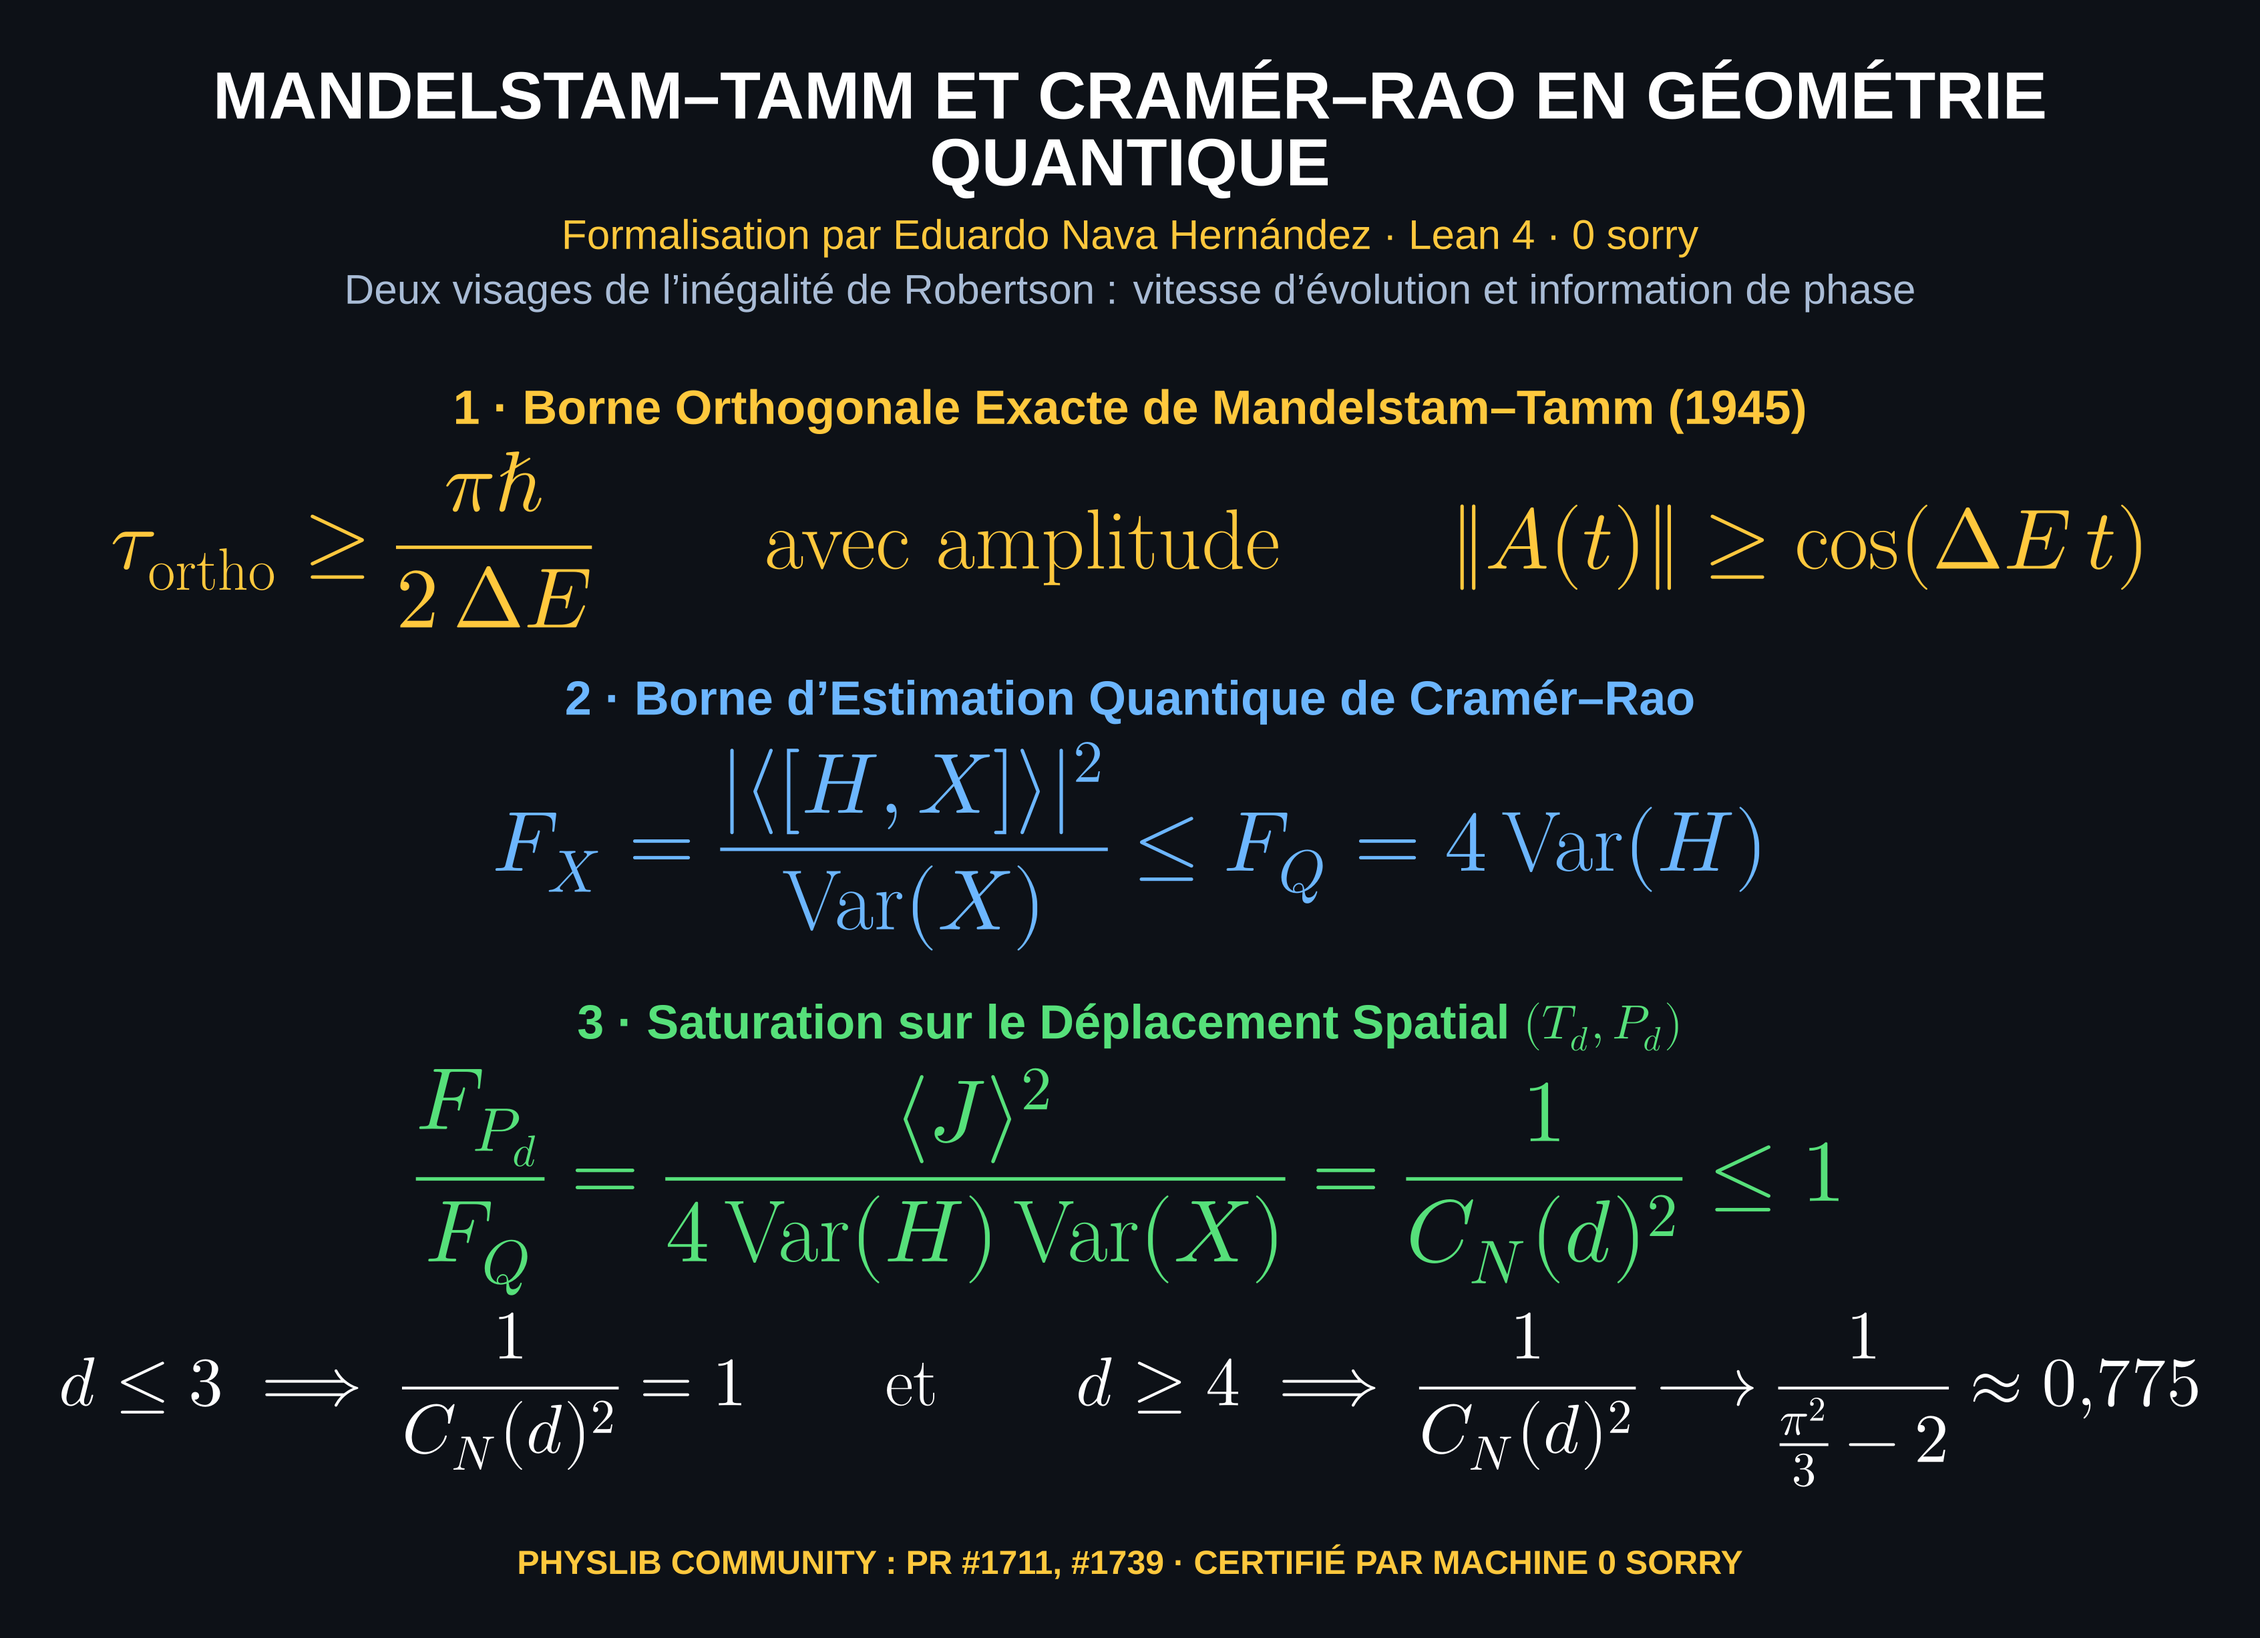
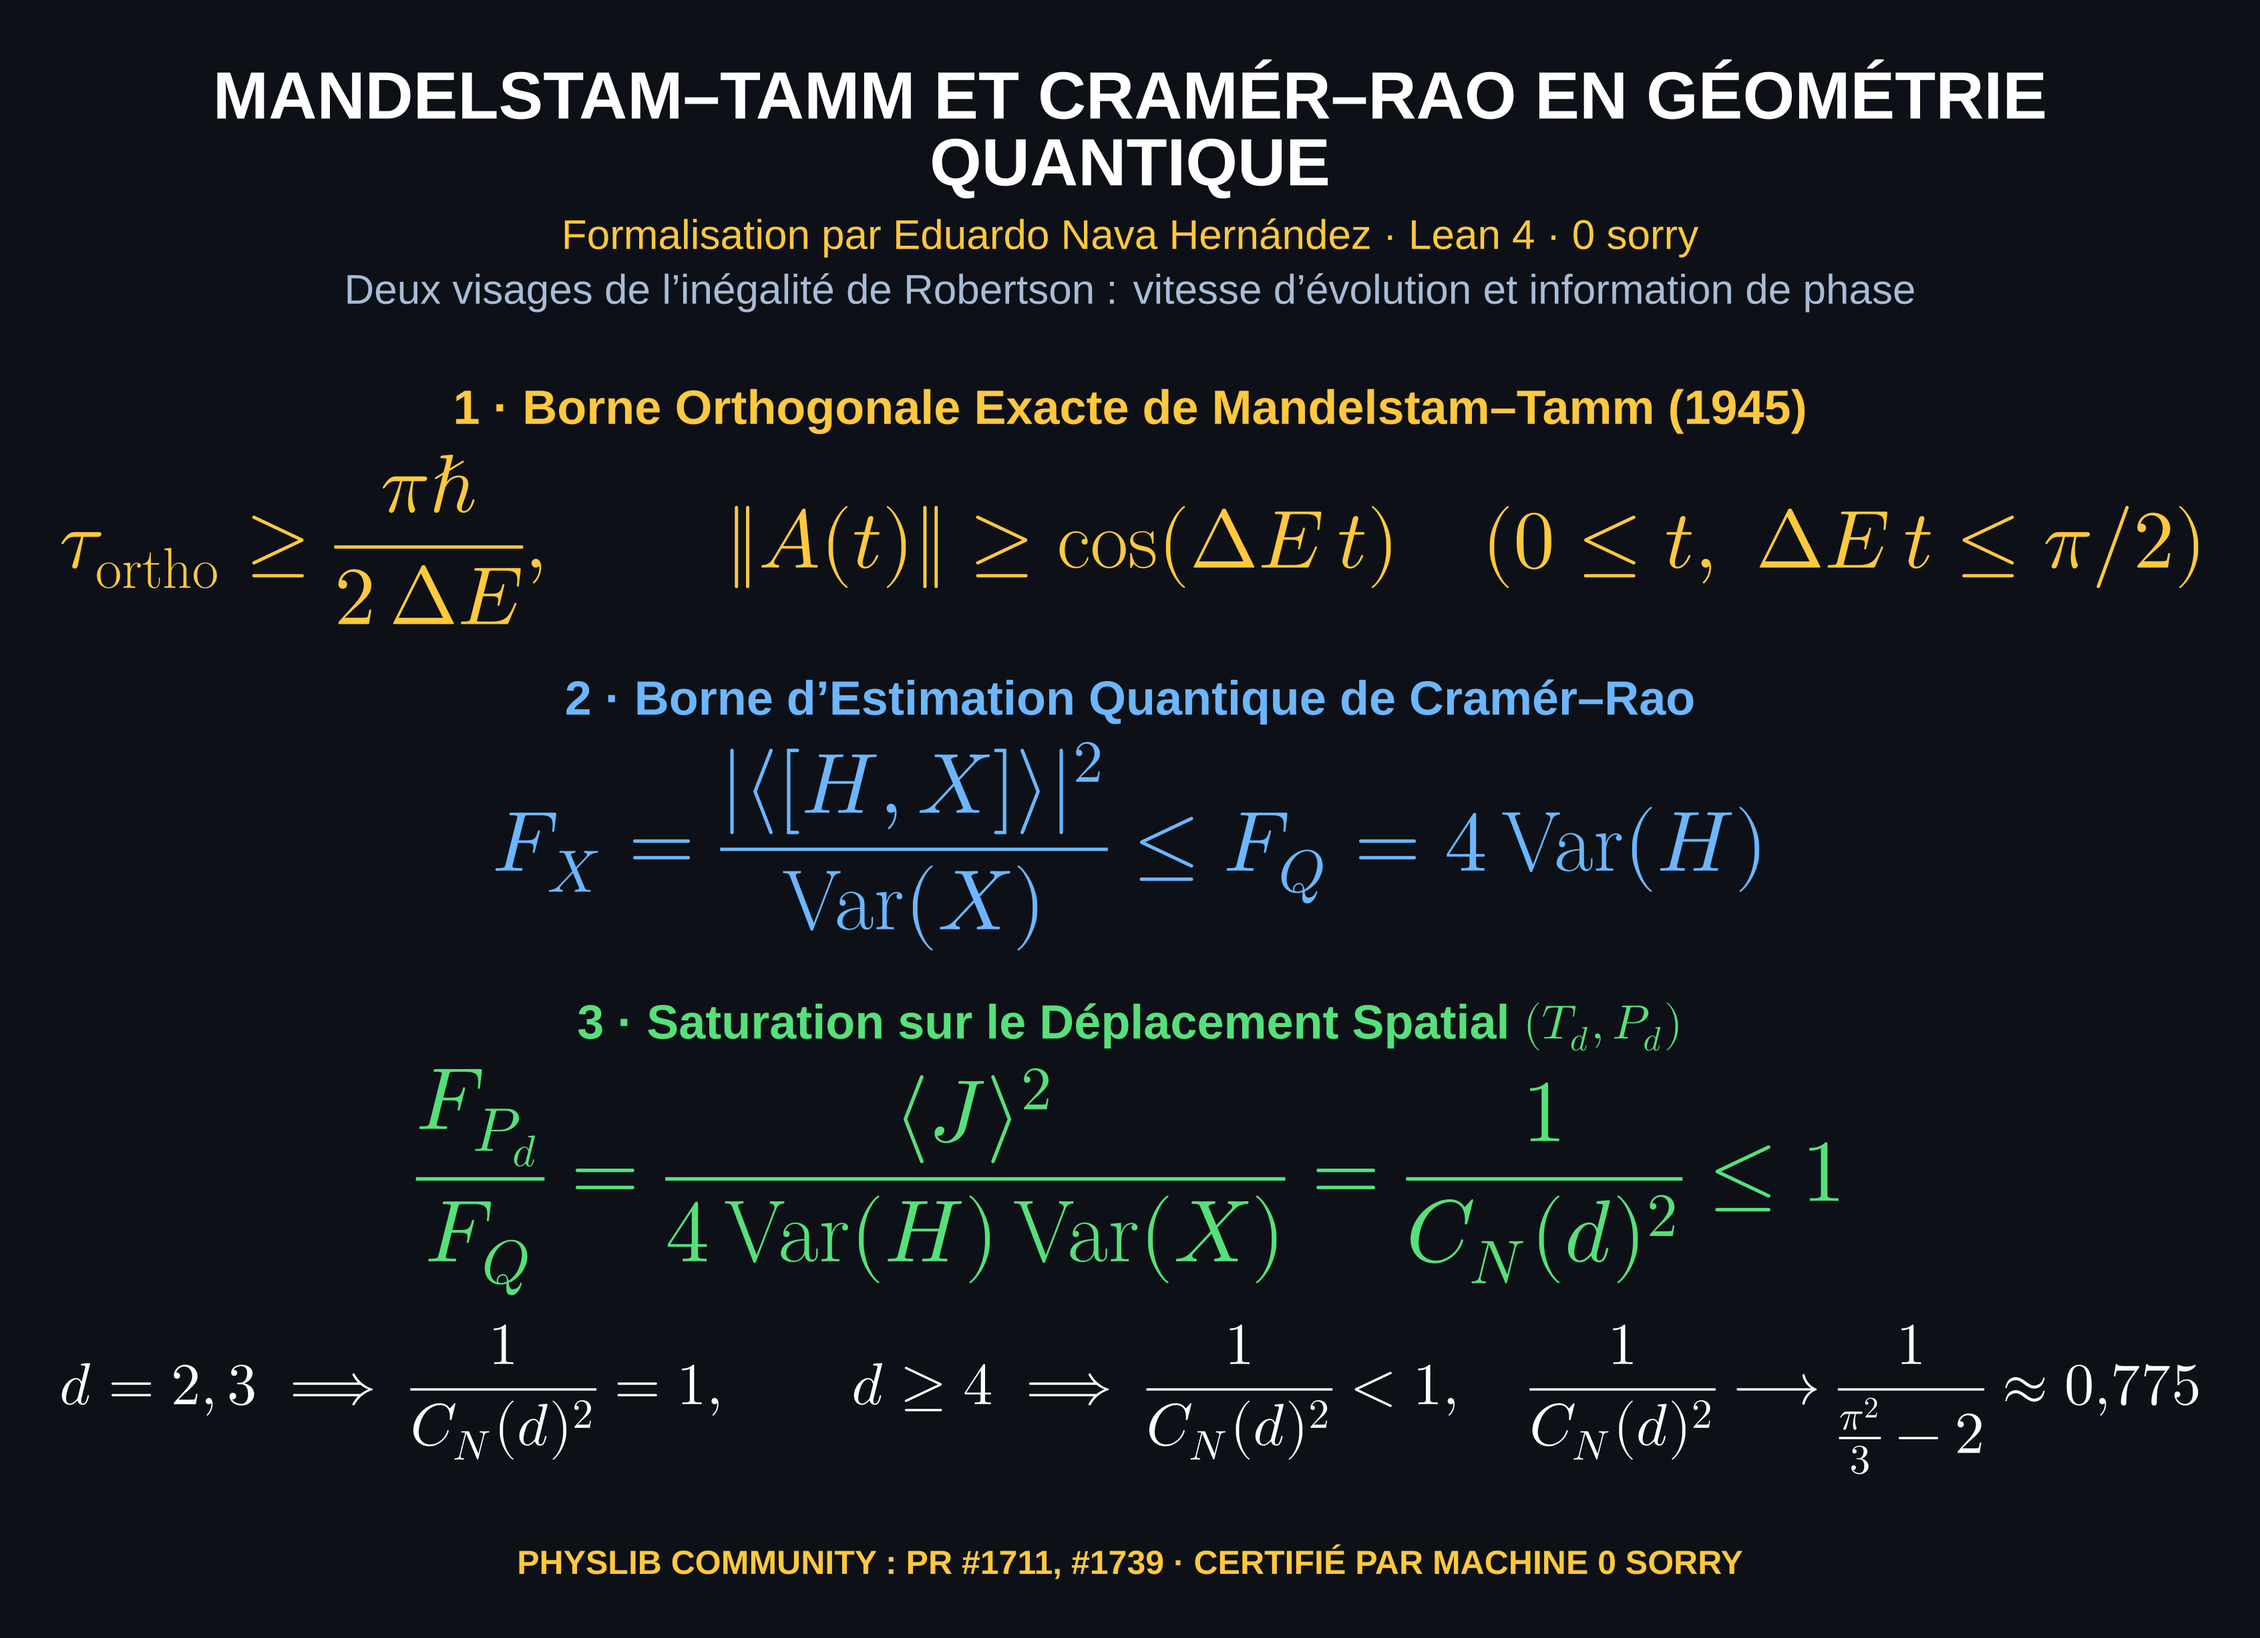
docs(readme): hypothèses 0 ≤ t, ΔE t ≤ π/2 dans les plaques ; Verification/Axioms.lean (#print axioms) ; convention ħ = 1

diff --git a/README.md b/README.md
@@ -55,6 +55,8 @@ Lorsque l'on étudie la vitesse de déplacement ou la précision d'estimation d'
 
 ## ⚡ Résumé formel
 
+*Convention : les modules Lean posent ħ = 1 ; les formules affichées restituent ħ (τ_ortho ≥ πħ / (2ΔE)). Les bornes en cos(ΔE t) valent pour 0 ≤ t et ΔE t ≤ π/2.*
+
 Ce dépôt formalise les deux théorèmes fondamentaux de la dynamique et de la métrologie quantiques sur espaces de Hilbert généraux et sur ℂ^d :
 
 * L'amplitude de survie A(t) et le temps minimal d'orthogonalité sont établis dans [`NRS3MandelstamTammCramerRao/MandelstamTamm1945.lean`](NRS3MandelstamTammCramerRao/MandelstamTamm1945.lean) (`cos_le_norm_amplitude`, `orthogonality_time`).
@@ -136,7 +138,7 @@ Sur la paire transport-position (T_d, P_d), l'efficacité F_P / F_Q vaut exactem
 | [`MandelstamTamm1945.lean`](NRS3MandelstamTammCramerRao/MandelstamTamm1945.lean) | `cos_le_norm_inner_evolve` | Évolution de Schrödinger finie sur ℂ^d | 0 |
 | [`CramerRao.lean`](NRS3MandelstamTammCramerRao/CramerRao.lean) | `robertson` | Inégalité de Robertson ‖⟨[A, B]⟩‖² ≤ 4 Var(A) Var(B) sur espaces préhilbertiens | 0 |
 | [`CramerRao.lean`](NRS3MandelstamTammCramerRao/CramerRao.lean) | `fisher_le_qfi` | Borne quantique de Cramér–Rao F_X ≤ F_Q = 4 Var(H) | 0 |
-| [`Verification/Axioms.lean`](Verification/Axioms.lean) | `NRS3MandelstamTammCramerRao_standardAxioms` | Compilation sous les seuls axiomes standards ZFC [propext, Classical.choice, Quot.sound] | 0 |
+| [`Verification/Axioms.lean`](Verification/Axioms.lean) | `#print axioms` | Les sept théorèmes ci-dessus dépendent des seuls axiomes standards de Lean [propext, Classical.choice, Quot.sound] | 0 |
 
 ---
 
